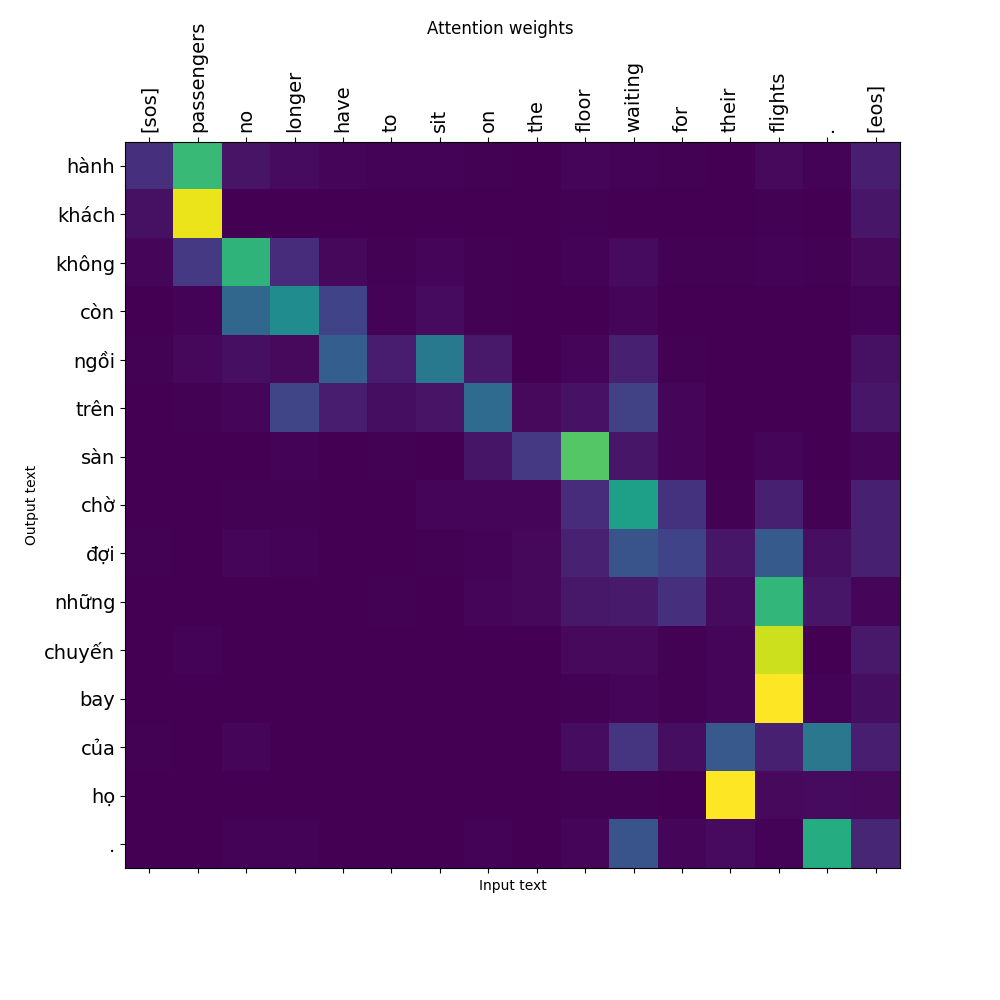
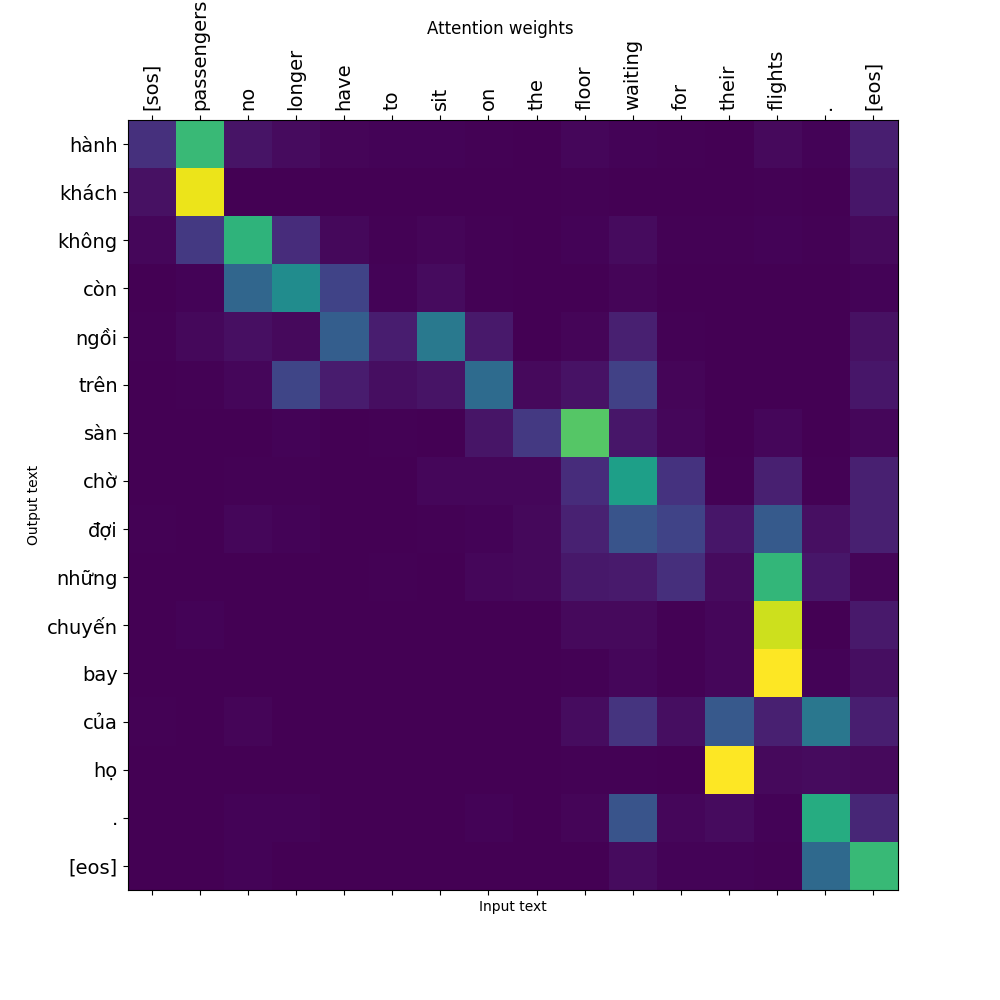
result

diff --git a/src/utils.py b/src/utils.py
@@ -60,7 +60,7 @@ def get_special_tokens(config):
 
 def visualize_attention(attention, sentence, predicted_sentence):
     sentence = to_lower_normalize(sentence).numpy().decode().split()
-    predicted_sentence = predicted_sentence.numpy().decode().split()
+    predicted_sentence = to_lower_normalize(predicted_sentence).numpy().decode().split()[1:]
     fig = plt.figure(figsize=(10, 10))
     ax = fig.add_subplot(1, 1, 1)
 
@@ -80,6 +80,6 @@ def visualize_attention(attention, sentence, predicted_sentence):
     ax.set_ylabel('Output text')
     plt.suptitle('Attention weights')
 
-    plt.savefig('result/attention/attention1.png')
+    plt.savefig('result/attention/attention2.png')
 
     # plt.show()

diff --git a/translate.py b/translate.py
@@ -43,7 +43,7 @@ if __name__ == "__main__":
     # for index in indexes:
     #     samples.append(dev[index])
 
-    samples = ["Passengers no longer have to sit on the floor waiting for their flights ."]
+    samples = ["check off the things you accomplish each day , and reflect on how you feel afterwards ."]
     #
     for sentence in samples:
         print(' -> Source: ', sentence)

diff --git a/REPORT_1.md b/REPORT_1.md
@@ -4,21 +4,30 @@
     - Rule-based Machine Translation (RBMT)
     - Statistical machine translation (SMT)
     - Neural machine translation (NMT)
-    - Transformer
+      - E-D (Encoder-Decoder)
+      - Transformer
 3. Xây dựng và huấn luyện được mô hình dịch máy cơ bản dùng mạng RNN (cụ thể là GRU)
-    - Vì số lượng câu rất lớn nên số lượng từ vựng cũng lớn, nên chỉ sử dụng từ vựng gồm 6000 từ xuất hiện nhiều nhất
+    - Vì số lượng câu rất lớn nên số lượng từ vựng rất lớn, nên chỉ sử dụng từ vựng gồm 6000 từ xuất hiện nhiều nhất
     - Giai đoạn huấn luyện, ước tính có 100 epochs:
-      - Dùng 200.000 cặp câu để huấn luyện 20 epochs đầu tiên
-      - Dùng 300.000 cặp câu để huấn luyện 20 epochs tiếp theo
-      - Dùng 400.000 cặp câu để huấn luyện 20 epochs tiếp theo
-      - dùng 500.000 cặp câu để huấn luyện 20 epochs tiếp theo
-      - Dùng 600.000 cặp câu để huấn luyện 20 epochs cuối cùng
-    - Validation data: dùng 2000 cặp câu không nằm trong tập huấn luyện 
+      - Dùng 300.000 cặp câu để huấn luyện (training) và 30.000 cặp câu để kiếm thử (validation) sau mỗi epoch
+      - Mô hình theo dõi độ chính xác trên tập kiểm thử và lưu lại mô hình tương ứng với độ chính xác lớn nhất
+      - Dùng Early Stopping để ngắn quá trình huấn luyện nếu `val_masked_loss` không có sự cải thiện
+    - Validation data: dùng 30000 cặp câu không nằm trong tập huấn luyện 
 4. Kết quả:
-    - Training
-    - Accuracy
-    - Attention
-5. Dịch một số câu khác:
+    - Training:
+    - Accuracy:
+    - Attention: 
+      - ![img.png](result/attention/attention.png)
+      - ![img.png](result/attention/attention1.png)
+      - ![img.png](result/attention/attention2.png)
+      - ![img.png](result/attention/attention3.png)
+               
+5. Kết quả khi dịch một số câu:
+   
 
 # Những công việc cần làm tiếp theo
-h
+
+1. Thử các mô hình khác và chọn mô hình hiệu quả hơn (E-D dùng Multi-head Attention, Transformer)
+2. Dịch từ Tiếng Việt -> Tiếng Anh
+3. Xử lý các từ không nằm trong từ điển
+4. Xử lý các câu văn bản tự nhiên trước khi đưa vào mô hình
